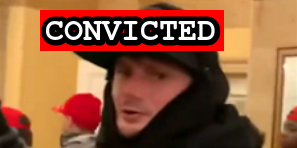
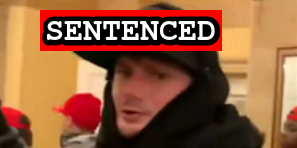
Bennett sentence

diff --git a/docs/_suspects/andrew-bennett.md b/docs/_suspects/andrew-bennett.md
@@ -4,12 +4,12 @@ lastName: Bennett
 hashtag: OverstuffedPB
 aka:
 residence: Maryland
-status: Convicted
+status: Sentenced
 date: 2021-01-26
 charged: 2021-01-26
 indicted:
 convicted: 2021-07-22
-sentenced:
+sentenced: 2021-10-01
 dismissed:
 deceased:
 plea_hearing: 2021-07-22
